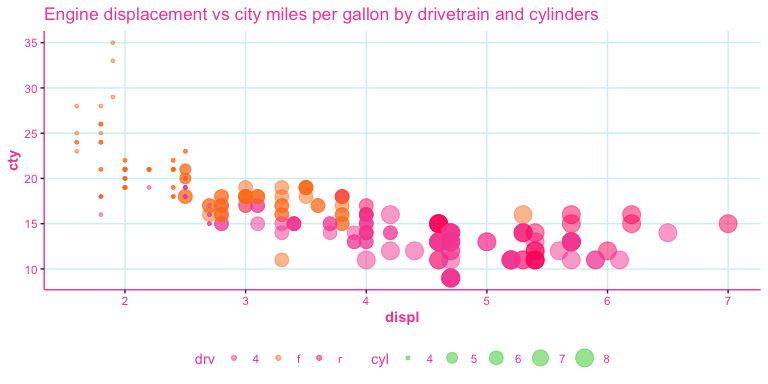
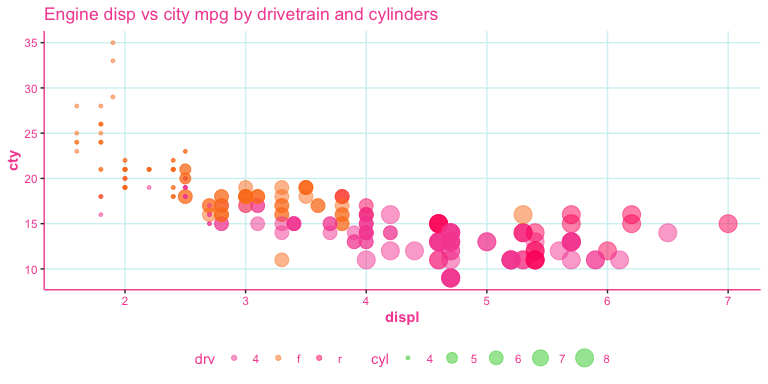
Shortened titles

Changed region(s): [[0.1562, 0.0, 0.7812, 0.0625]]

diff --git a/README.md b/README.md
@@ -47,7 +47,7 @@ Use `scale_colour_shredR()` to apply the theme for colour parameters.
 ``` r
 ggplot(mpg, aes(x = displ, y = cty, colour = drv, size = cyl)) +
 geom_point(alpha = 0.5) +
-labs(title = "Engine displacement vs city miles per gallon by drivetrain and cylinders") +
+labs(title = "Engine disp vs city mpg by drivetrain and cylinders") +
 scale_colour_shredR() +
 theme_shredR(grids = TRUE)
 ```
@@ -63,7 +63,7 @@ library(mgcv)
 ggplot(mpg, aes(x = displ, y = cty, colour = drv, size = cyl)) +
 geom_smooth(aes(group = 1), formula = y ~ s(x), method = "gam", size = 1) +
 geom_point(alpha = 0.5) +
-labs(title = "Engine displacement vs city miles per gallon by drivetrain and cylinders") +
+labs(title = "Engine disp vs city mpg by drivetrain and cylinders") +
 scale_colour_shredR() +
 theme_shredR(grids = TRUE)
 ```
